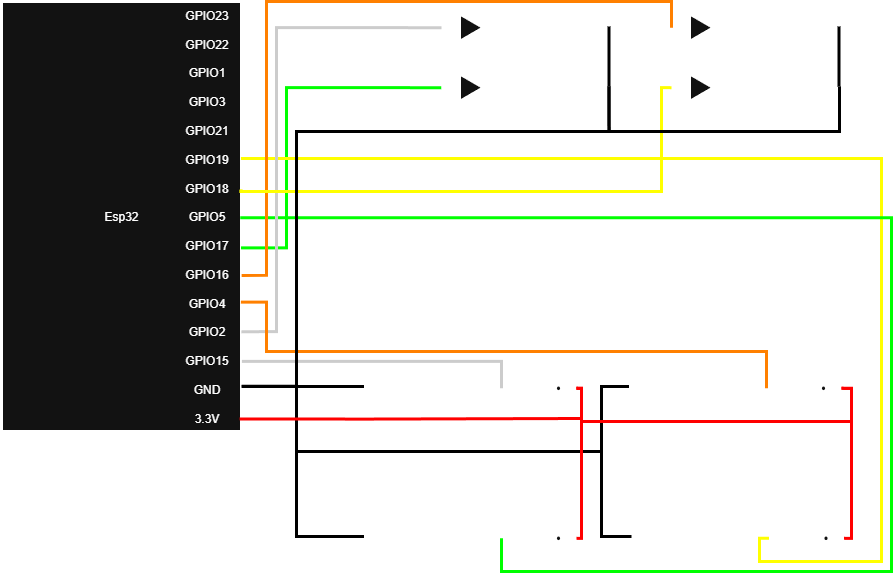
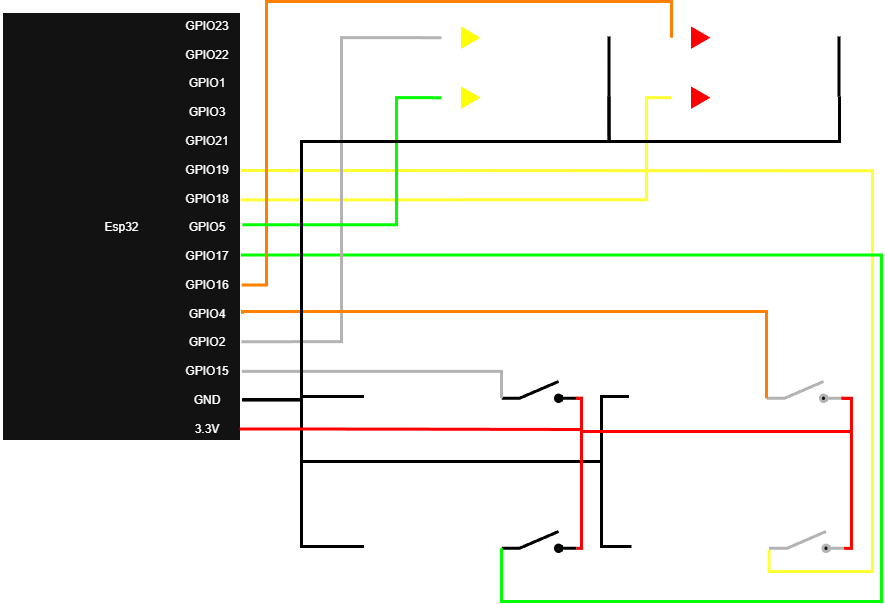
att readme

Changed region(s): [[0.0, 0.0, 1.0, 1.0], [0.7322, 0.0, 0.7932, 0.0889], [0.122, 0.3554, 0.1525, 0.385]]

diff --git a/producerConsumerActivity/producerConsumer/README.md b/producerConsumerActivity/producerConsumer/README.md
@@ -68,11 +68,11 @@
 |------------|------------|
 | Botão 1    | GPIO 15    |
 | Botão 2    | GPIO 4     |
-| Botão 3    | GPIO 5     |
+| Botão 3    | GPIO 17    |
 | Botão 4    | GPIO 19    |
 | LED 1      | GPIO 2     |
 | LED 2      | GPIO 16    |
-| LED 3      | GPIO 17    |
+| LED 3      | GPIO 5     |
 | LED 4      | GPIO 18    |
 
 
